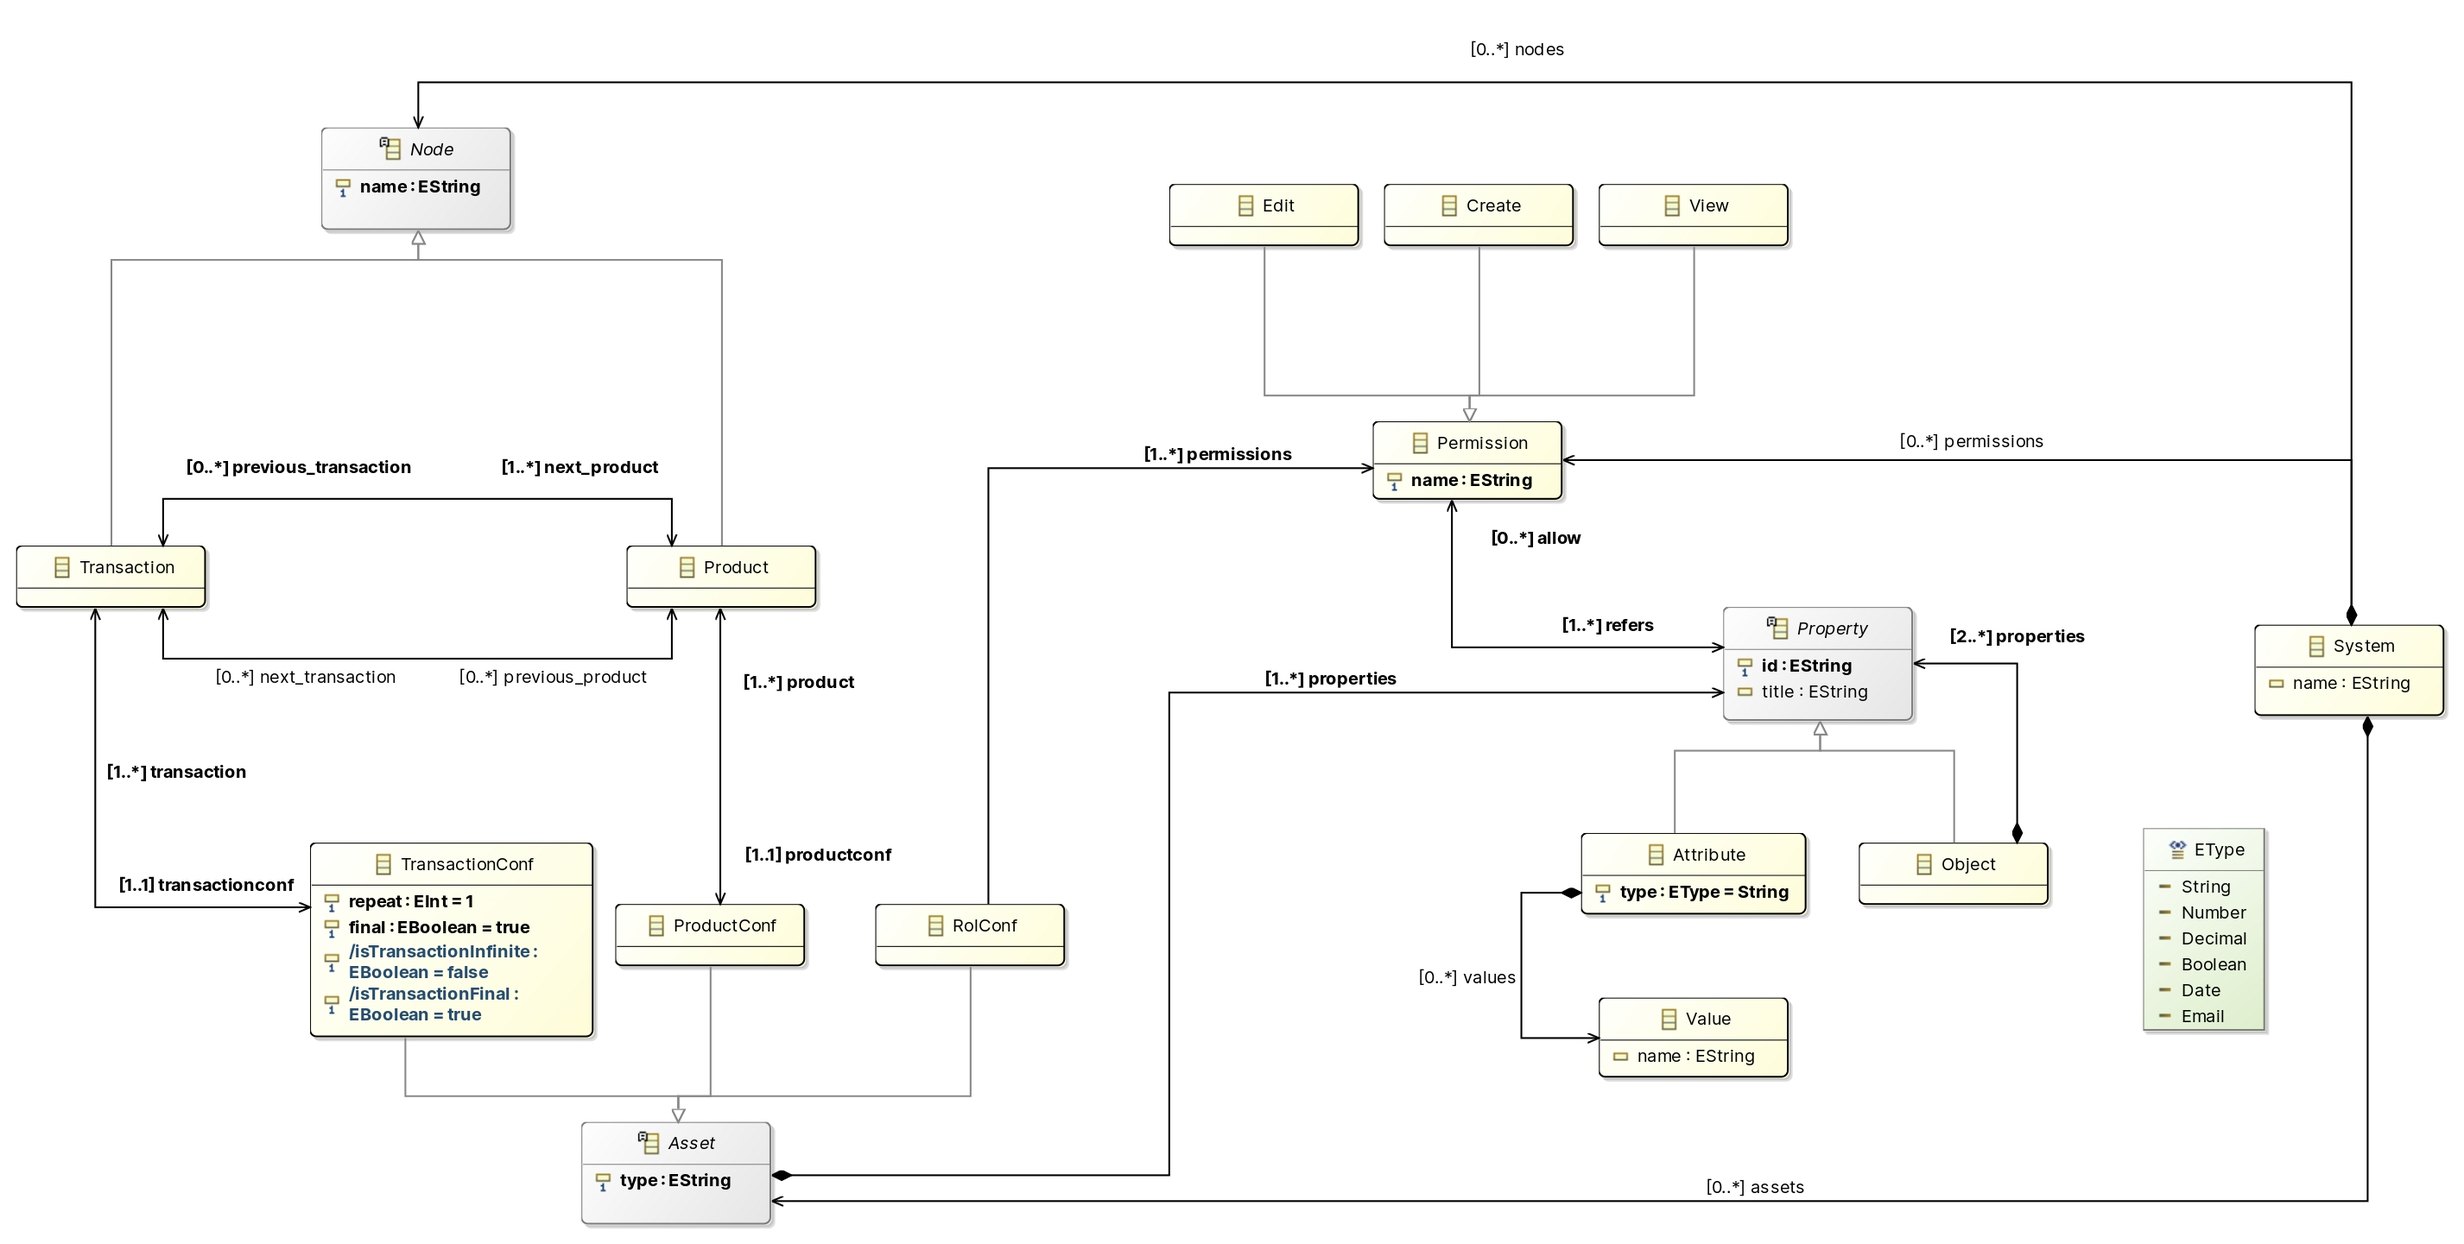
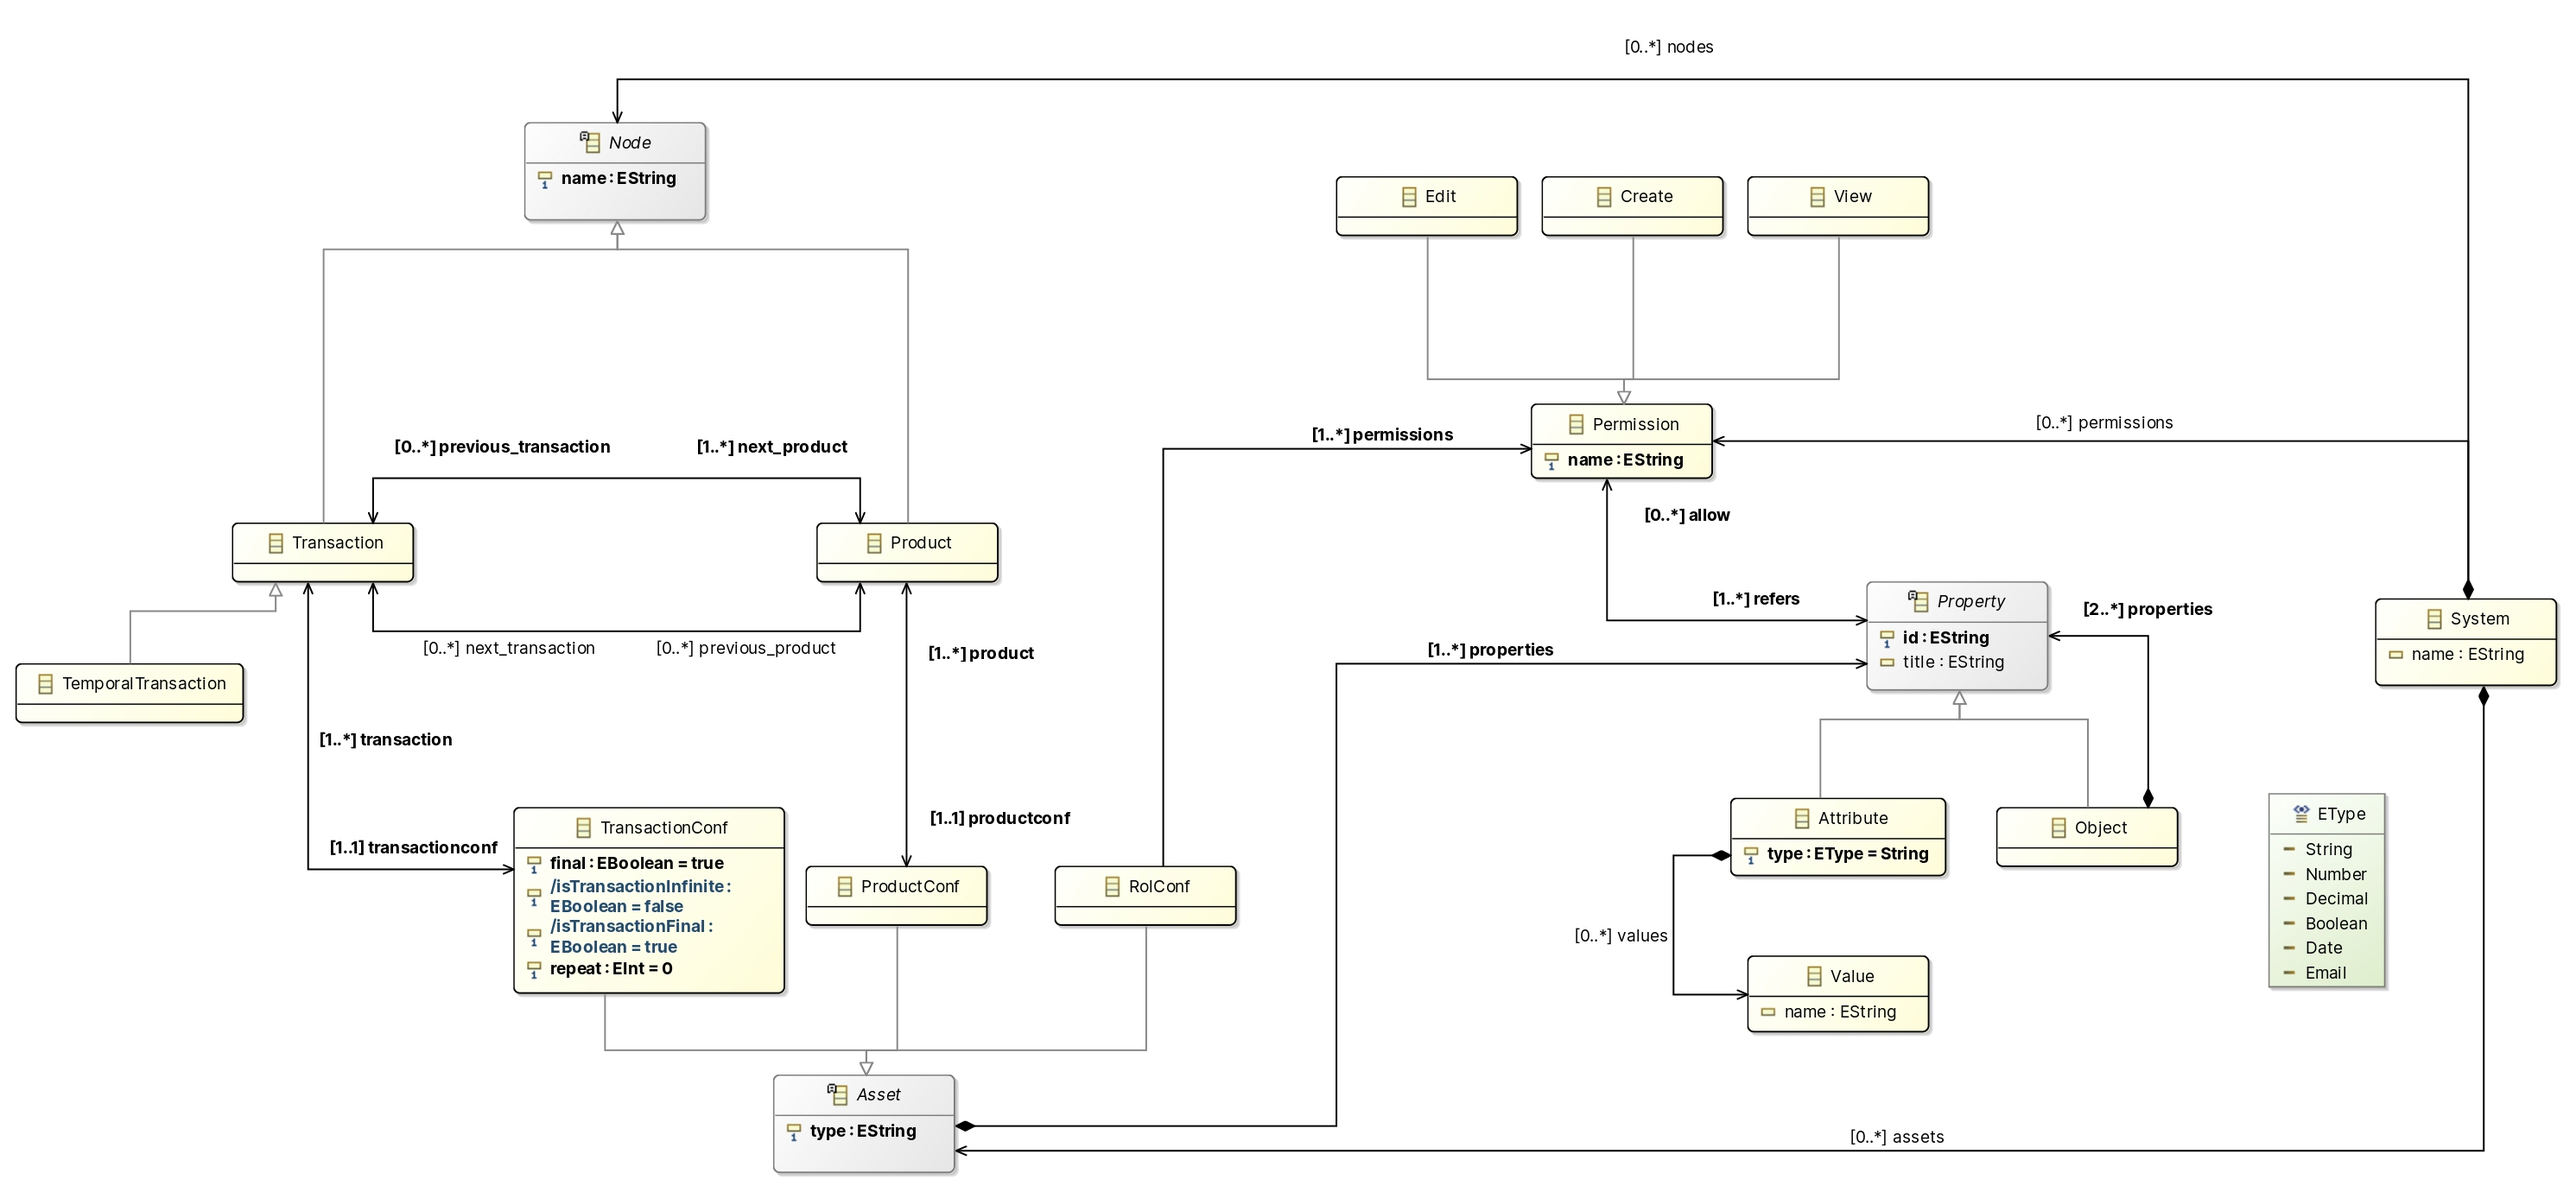
Documentacion acceleo
Se ha añadido un script de acceleo para poder generar la documentacion necesaria relativa a el metamodelo, sus clases y ses relaciones.

diff --git a/TFG-TrustOS_Traceability/doc/TraceabilityMM.html b/TFG-TrustOS_Traceability/doc/TraceabilityMM.html
@@ -1,0 +1,356 @@
+
+<!DOCTYPE html>
+<html lang="es">
+	<head>
+		<meta charset="utf-8">
+		<title>TraceabilityMM</title>
+	
+		<!-- Autores : Pedro Miguel Carmona Broncano && Ruben Marin Lucas -->
+		<!-- Proyecto de la asignatura DMSS -->
+	
+		<link href="https://fonts.googleapis.com/icon?family=Material+Icons" rel="stylesheet">
+	
+	</head>
+
+	<body>
+
+	<p><b>Authors</b> : Pedro Miguel Carmona Broncano</p>
+	<p><b>Last updated</b> : 17 abr 2023</p>
+	<p><img src = "../metamodel/TFG_TrustOS_Traceability.jpg" alt = "TraceabilityDSL" height = "800" /></p>
+	<p><b>Name</b> : TraceabilityMM</p>
+	<p><b>NS Prefix</b> : TraceabilityMM</p>
+	<p><b>NS URI</b> : http://www.example.org/TraceabilityMM</p>
+
+	
+		<span style="background-color:LightGrey">EClass : Node</span> (abstracta) 
+		<p>Descripción : Clase abstracta que repesenta un nodo </p>
+		
+		<ul>
+			<li>(1...1) <b>name</b> : EString </li>
+		</ul>
+
+		<ul>
+		</ul>
+		
+		<ul>
+		</ul>
+		
+		<ul>
+		</ul>
+
+		<span style="background-color:LightGoldenRodYellow">EClass : Transaction</span> extends Node
+		<p>Descripción : Clase que representa una transacción </p>
+		
+		<ul>
+			<li>(1...1) <b>name</b> : EString </li>
+		</ul>
+
+		<ul>
+			<li>(1...1) <b>transaction#transactionconf</b> : TransactionConf  </li>
+			<li>(1...*) <b>previous_transaction#next_product</b> : Product  </li>
+			<li>(0...*) <b>next_transaction#previous_product</b> : Product  </li>
+		</ul>
+		
+		<ul>
+		</ul>
+		
+		<ul>
+		</ul>
+
+		<span style="background-color:LightGoldenRodYellow">EClass : Product</span> extends Node
+		<p>Descripción : Clase que representa a un producto </p>
+		
+		<ul>
+			<li>(1...1) <b>name</b> : EString </li>
+		</ul>
+
+		<ul>
+			<li>(1...1) <b>product#productconf</b> : ProductConf  </li>
+			<li>(0...*) <b>next_product#previous_transaction</b> : Transaction  </li>
+			<li>(0...*) <b>previous_product#next_transaction</b> : Transaction  </li>
+		</ul>
+		
+		<ul>
+		</ul>
+		
+		<ul>
+		</ul>
+
+		<span style="background-color:LightGoldenRodYellow">EClass : TransactionConf</span> extends Asset
+		<p>Descripción : Clase que representa a la configuración de una transacción </p>
+		
+		<ul>
+			<li>(1...1) <b>type</b> : EString </li>
+			<li>(1...1) <b>final</b> : EBoolean </li>
+			<li>(1...1) <b>isTransactionInfinite</b> : EBoolean (derived) = <span style ="color:blue">self.repeat = -1</span></li>
+			<li>(1...1) <b>isTransactionFinal</b> : EBoolean (derived) = <span style ="color:blue">self.final</span></li>
+			<li>(1...1) <b>repeat</b> : EInt </li>
+		</ul>
+
+		<ul>
+			<li>(1...*) <b>transactionconf#transaction</b> : Transaction  </li>
+		</ul>
+		
+		<ul>
+		<li>(1...*) <b>properties</b> : Property (Composition) </li>
+		</ul>
+		
+		<ul>
+			<li>invariant <b>repeatDiferentZero</b> : <span style ="color:blue">self.repeat <> 0</span></li>
+			<li>invariant <b>repeatValues</b> : <span style ="color:blue">self.repeat = -1 or self.repeat > 0</span></li>
+		</ul>
+
+		<span style="background-color:LightGoldenRodYellow">EClass : ProductConf</span> extends Asset
+		<p>Descripción : Clase que representa a la configuración de un producto </p>
+		
+		<ul>
+			<li>(1...1) <b>type</b> : EString </li>
+		</ul>
+
+		<ul>
+			<li>(1...*) <b>productconf#product</b> : Product  </li>
+		</ul>
+		
+		<ul>
+		<li>(1...*) <b>properties</b> : Property (Composition) </li>
+		</ul>
+		
+		<ul>
+			<li>invariant <b>transactionsFinals</b> : <span style ="color:blue">self.product.next_transaction.transactionconf->select(isTransactionInfinite)->size() >= 1 implies self.product.next_transaction.transactionconf->select(isTransactionFinal)->size() >= 1</span></li>
+		</ul>
+
+		<span style="background-color:LightGoldenRodYellow">EClass : RolConf</span> extends Asset
+		<p>Descripción : Clase que representa a la configuración de un rol </p>
+		
+		<ul>
+			<li>(1...1) <b>type</b> : EString </li>
+		</ul>
+
+		<ul>
+			<li>(1...*) <b>permissions</b> : Permission  </li>
+		</ul>
+		
+		<ul>
+		<li>(1...*) <b>properties</b> : Property (Composition) </li>
+		</ul>
+		
+		<ul>
+			<li>invariant <b>onePermissionTotal</b> : <span style ="color:blue">self.permissions->selectByType(Permission)->size() <= 1</span></li>
+			<li>invariant <b>noMoreOneEdit</b> : <span style ="color:blue">self.permissions->selectByType(Edit)->size() <= 1</span></li>
+			<li>invariant <b>noMoreOneView</b> : <span style ="color:blue">self.permissions->selectByType(View)->size() <= 1</span></li>
+			<li>invariant <b>noMoreOneCreate</b> : <span style ="color:blue">self.permissions->selectByType(Create)->size() <= 1</span></li>
+		</ul>
+
+		<span style="background-color:LightGrey">EClass : Asset</span> (abstracta) 
+		<p>Descripción : Clase abstracta para definir un node </p>
+		
+		<ul>
+			<li>(1...1) <b>type</b> : EString </li>
+		</ul>
+
+		<ul>
+			<li>(1...*) <b>properties</b> : Property (Composition) </li>
+		</ul>
+		
+		<ul>
+		</ul>
+		
+		<ul>
+		</ul>
+
+		<span style="background-color:LightGoldenRodYellow">EClass : Permission</span> 
+		<p>Descripción : Clase que representa a un permiso total sobre una propiedad de un asset </p>
+		
+		<ul>
+			<li>(1...1) <b>name</b> : EString </li>
+		</ul>
+
+		<ul>
+			<li>(1...*) <b>allow#refers</b> : Property  </li>
+		</ul>
+		
+		<ul>
+		</ul>
+		
+		<ul>
+		</ul>
+
+		<span style="background-color:LightGoldenRodYellow">EClass : Edit</span> extends Permission
+		<p>Descripción : Clase que representa a un permiso de editado sobre una propiedad de un asset </p>
+		
+		<ul>
+			<li>(1...1) <b>name</b> : EString </li>
+		</ul>
+
+		<ul>
+		</ul>
+		
+		<ul>
+		<li>(1...*) <b>allow#refers</b> : Property  </li>
+		</ul>
+		
+		<ul>
+		</ul>
+
+		<span style="background-color:LightGoldenRodYellow">EClass : Create</span> extends Permission
+		<p>Descripción : Clase que representa a un permiso de creación sobre una propiedad de un asset </p>
+		
+		<ul>
+			<li>(1...1) <b>name</b> : EString </li>
+		</ul>
+
+		<ul>
+		</ul>
+		
+		<ul>
+		<li>(1...*) <b>allow#refers</b> : Property  </li>
+		</ul>
+		
+		<ul>
+		</ul>
+
+		<span style="background-color:LightGoldenRodYellow">EClass : View</span> extends Permission
+		<p>Descripción : Clase que representa a un permiso de lectura sobre una propiedad de un asset </p>
+		
+		<ul>
+			<li>(1...1) <b>name</b> : EString </li>
+		</ul>
+
+		<ul>
+		</ul>
+		
+		<ul>
+		<li>(1...*) <b>allow#refers</b> : Property  </li>
+		</ul>
+		
+		<ul>
+		</ul>
+
+		<span style="background-color:LightGoldenRodYellow">EClass : System</span> 
+		<p>Descripción :  </p>
+		
+		<ul>
+			<li>(0...1) <b>name</b> : EString </li>
+		</ul>
+
+		<ul>
+			<li>(0...*) <b>nodes</b> : Node (Composition) </li>
+			<li>(0...*) <b>assets</b> : Asset (Composition) </li>
+			<li>(0...*) <b>permissions</b> : Permission (Composition) </li>
+		</ul>
+		
+		<ul>
+		</ul>
+		
+		<ul>
+		</ul>
+
+		<span style="background-color:LightGrey">EClass : Property</span> (abstracta) 
+		<p>Descripción : Clase abstracta que representa a propiedad de un asset </p>
+		
+		<ul>
+			<li>(1...1) <b>id</b> : EString </li>
+			<li>(0...1) <b>title</b> : EString </li>
+		</ul>
+
+		<ul>
+			<li>(0...*) <b>refers#allow</b> : Permission  </li>
+		</ul>
+		
+		<ul>
+		</ul>
+		
+		<ul>
+			<li>invariant <b>propertiesAllow</b> : <span style ="color:blue"> (self.oclContainer().oclIsTypeOf(ProductConf) or self.oclContainer().oclIsTypeOf(TransactionConf)) implies self.allow->size() > 0</span></li>
+			<li>invariant <b>noFinalId</b> : <span style ="color:blue">self.id.toLower() <> 'final'</span></li>
+		</ul>
+
+		<span style="background-color:LightGoldenRodYellow">EClass : Attribute</span> extends Property
+		<p>Descripción : Clase que representa a un atributo de un asset </p>
+		
+		<ul>
+			<li>(1...1) <b>id</b> : EString </li>
+			<li>(0...1) <b>title</b> : EString </li>
+			<li>(1...1) <b>type</b> : EType </li>
+		</ul>
+
+		<ul>
+			<li>(0...*) <b>values</b> : Value (Composition) </li>
+		</ul>
+		
+		<ul>
+		<li>(0...*) <b>refers#allow</b> : Permission  </li>
+		</ul>
+		
+		<ul>
+		</ul>
+
+		<span style="background-color:LightGoldenRodYellow">EClass : Object</span> extends Property
+		<p>Descripción : Clase que representa a un objecto de atributos de un asset </p>
+		
+		<ul>
+			<li>(1...1) <b>id</b> : EString </li>
+			<li>(0...1) <b>title</b> : EString </li>
+		</ul>
+
+		<ul>
+			<li>(2...*) <b>properties</b> : Property (Composition) </li>
+		</ul>
+		
+		<ul>
+		<li>(0...*) <b>refers#allow</b> : Permission  </li>
+		</ul>
+		
+		<ul>
+		</ul>
+
+		<span style="background-color:LightGoldenRodYellow">EClass : Value</span> 
+		<p>Descripción : Clase que representa a value de un atributo de un asset </p>
+		
+		<ul>
+			<li>(0...1) <b>name</b> : EString </li>
+		</ul>
+
+		<ul>
+		</ul>
+		
+		<ul>
+		</ul>
+		
+		<ul>
+		</ul>
+
+		<span style="background-color:LightGoldenRodYellow">EClass : TemporalTransaction</span> extends Transaction
+		<p>Descripción : Clase que representa a una transacción temporal </p>
+		
+		<ul>
+			<li>(1...1) <b>name</b> : EString </li>
+		</ul>
+
+		<ul>
+		</ul>
+		
+		<ul>
+		<li>(1...1) <b>transaction#transactionconf</b> : TransactionConf  </li>
+		<li>(1...*) <b>previous_transaction#next_product</b> : Product  </li>
+		<li>(0...*) <b>next_transaction#previous_product</b> : Product  </li>
+		</ul>
+		
+		<ul>
+		</ul>
+
+
+	<span style="background-color:#e6ffe6">EEnum : EType</span> 
+
+		<ul>
+			<li>0 : String</li>
+			<li>1 : Number</li>
+			<li>2 : Decimal</li>
+			<li>3 : Boolean</li>
+			<li>4 : Date</li>
+			<li>5 : Email</li>
+		</ul>
+	
+	
+	</body>
+</html>
